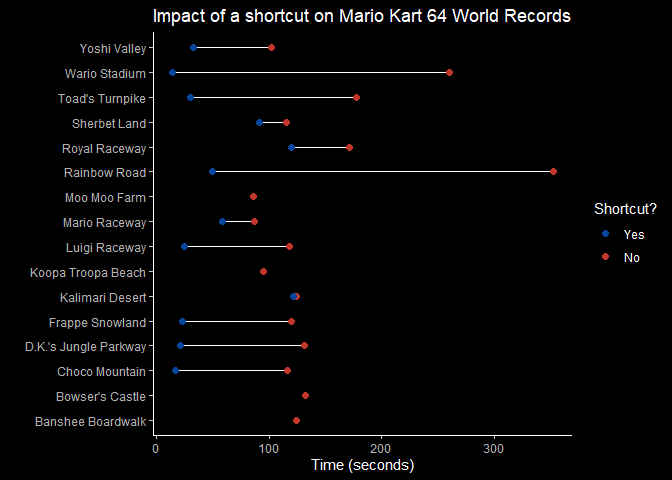
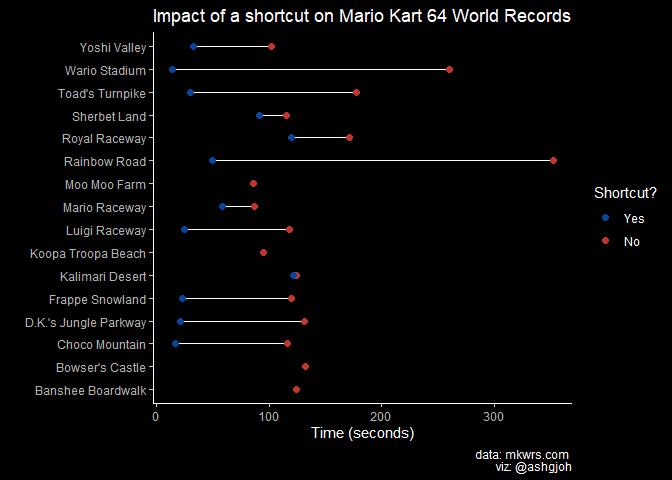
updated week 22

diff --git a/2021_Week22/210525_tidytuesday.md b/2021_Week22/210525_tidytuesday.md
@@ -72,7 +72,7 @@ ggplot(records_shortcut_comparison, aes(y = track, x = current_record)) +
   geom_line() + 
   geom_point(aes(color = shortcut), size = 2) + 
   scale_color_manual(values = c("#08469E","#C2352D")) +
-  labs(x = "Time (seconds)", y = "", title = "Impact of a shortcut on Mario Kart 64 World Records", color = "Shortcut?") +
+  labs(x = "Time (seconds)", y = "", title = "Impact of a shortcut on Mario Kart 64 World Records", color = "Shortcut?", caption = "data: mkwrs.com \n viz: @ashgjoh") +
   dark_theme_classic()
 ```
 
